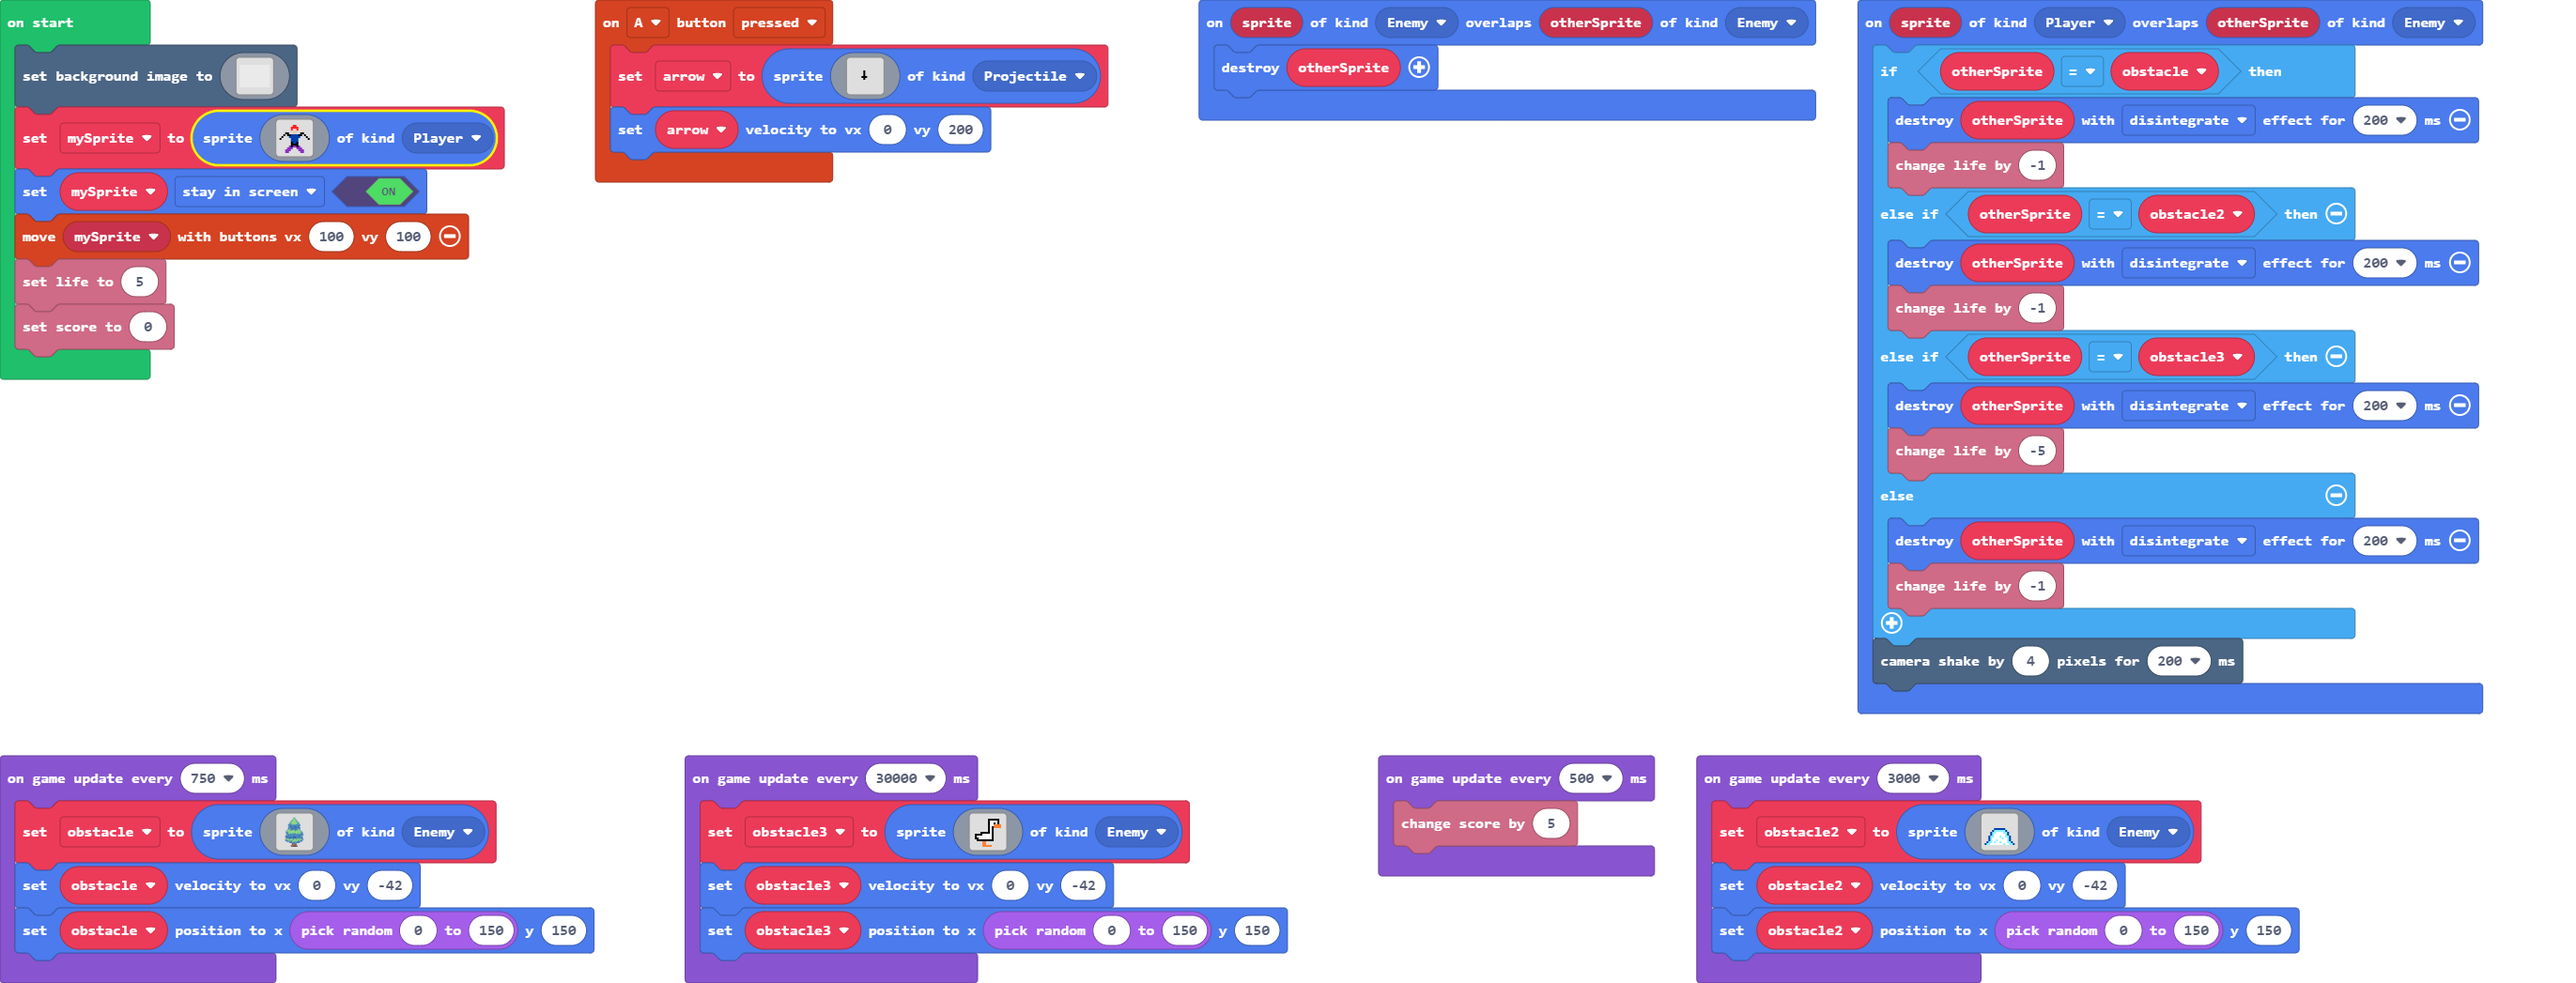
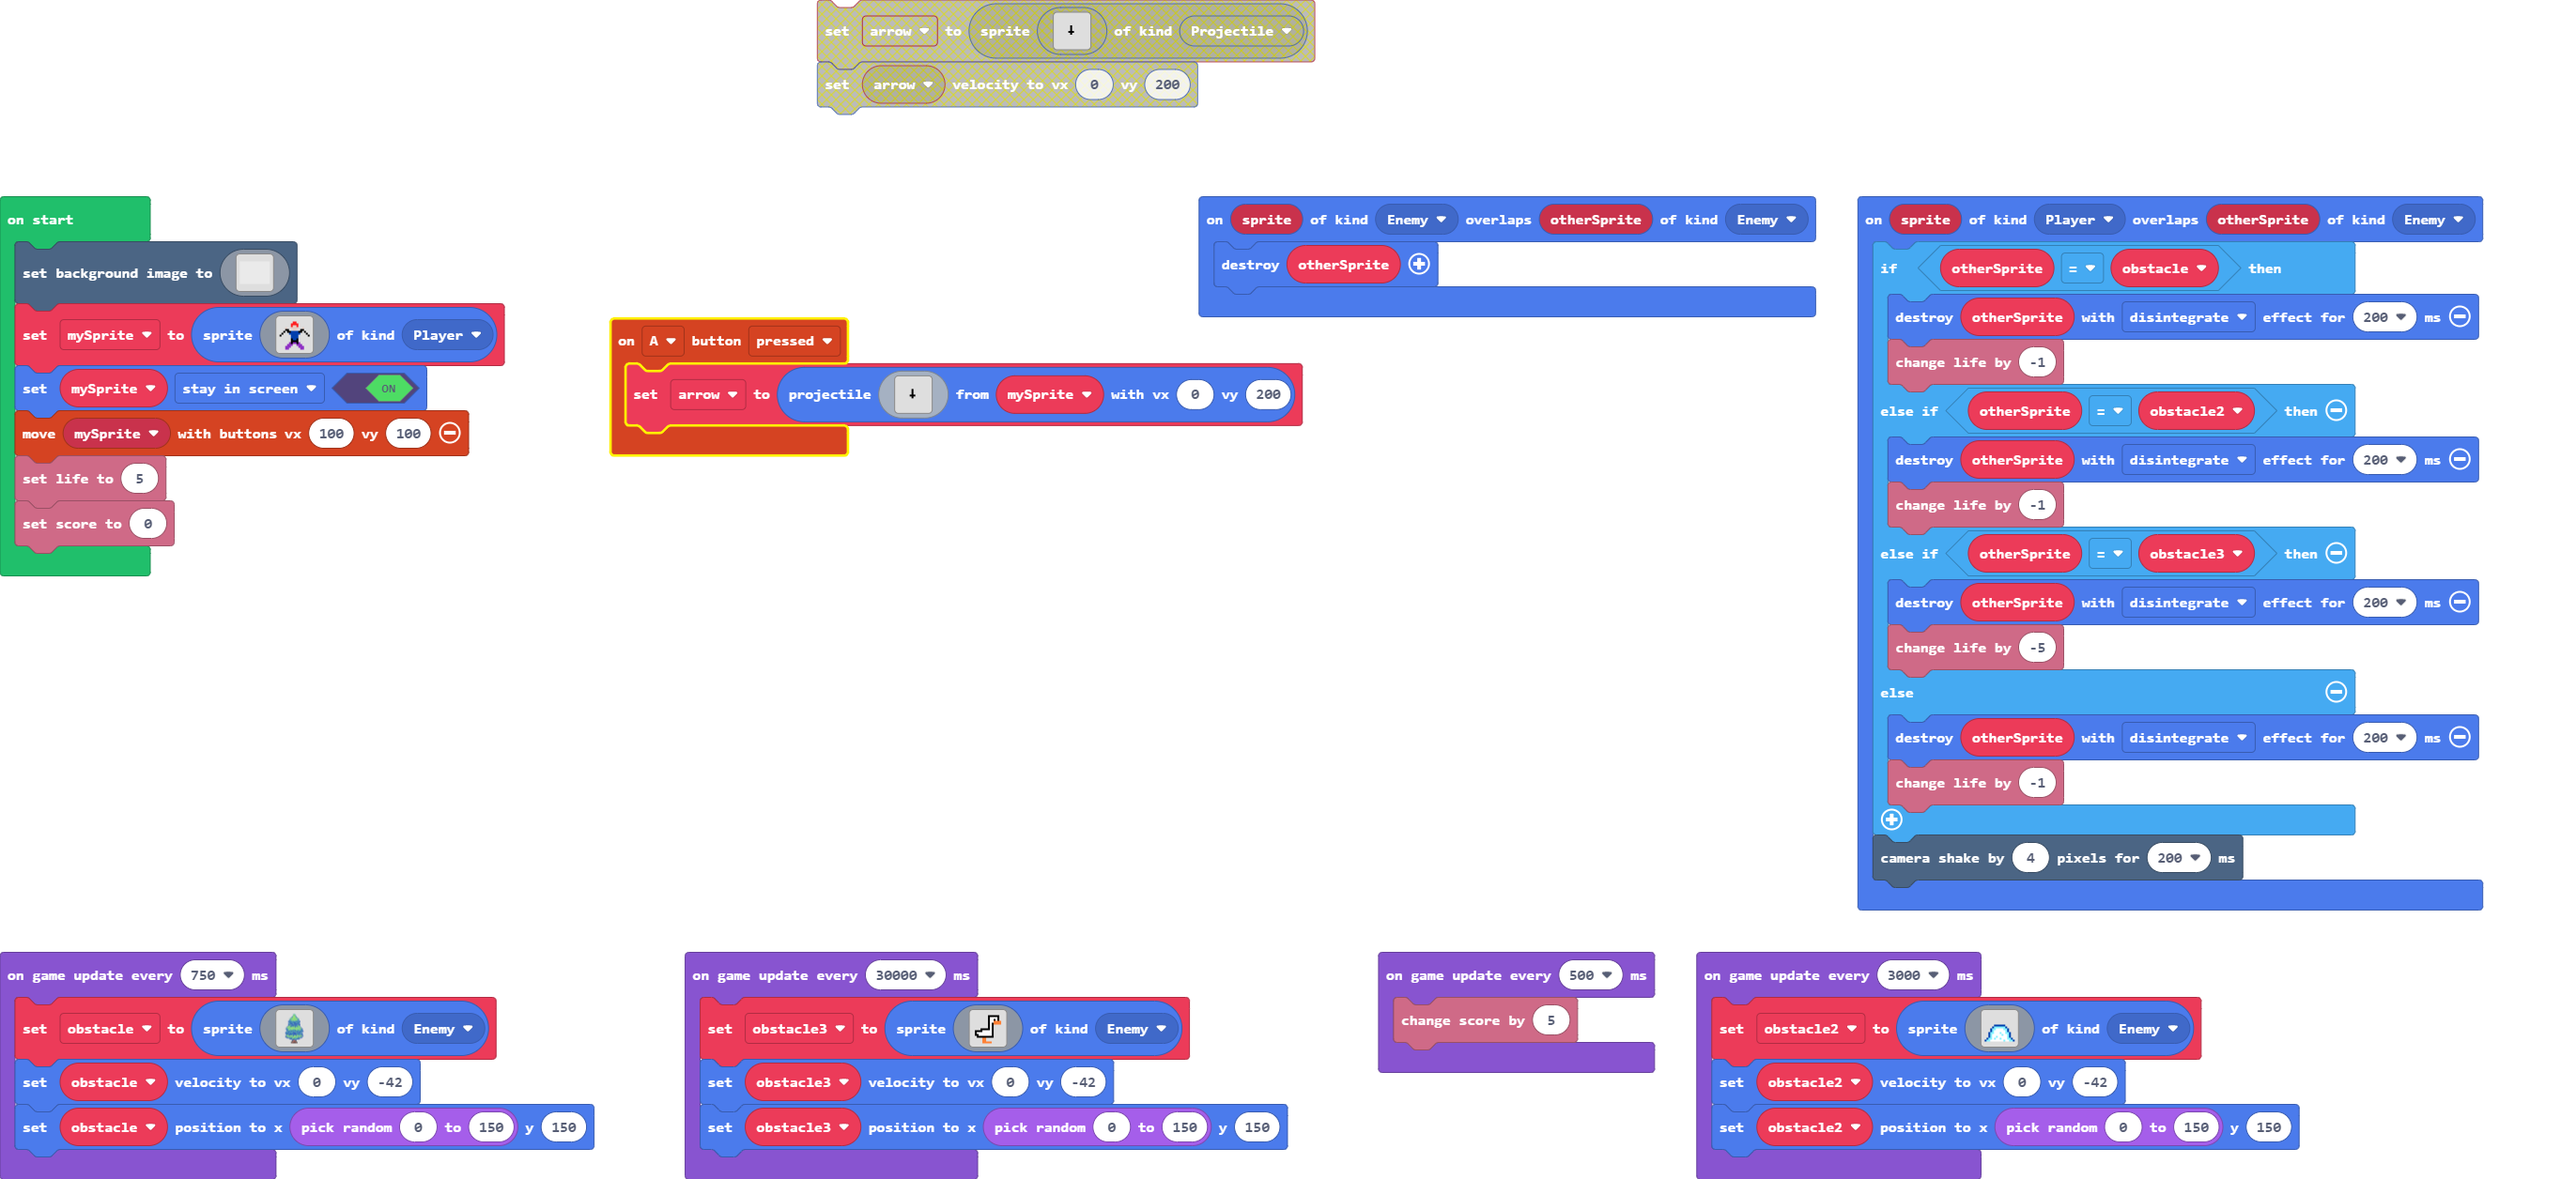
Update main.blocks, main.ts

diff --git a/main.ts b/main.ts
@@ -4,7 +4,7 @@ namespace SpriteKind {
     export const goose = SpriteKind.create()
 }
 controller.A.onEvent(ControllerButtonEvent.Pressed, function () {
-    arrow = sprites.create(img`
+    arrow = sprites.createProjectileFromSprite(img`
         . . . . . . . . . . . . . . . . 
         . . . . . . . . . . . . . . . . 
         . . . . . . . . . . . . . . . . 
@@ -21,8 +21,7 @@ controller.A.onEvent(ControllerButtonEvent.Pressed, function () {
         . . . . . . . . . . . . . . . . 
         . . . . . . . . . . . . . . . . 
         . . . . . . . . . . . . . . . . 
-        `, SpriteKind.Projectile)
-    arrow.setVelocity(0, 200)
+        `, mySprite, 0, 200)
 })
 sprites.onOverlap(SpriteKind.Enemy, SpriteKind.Enemy, function (sprite, otherSprite) {
     otherSprite.destroy()
@@ -47,6 +46,7 @@ let obstacle3: Sprite = null
 let obstacle2: Sprite = null
 let obstacle: Sprite = null
 let arrow: Sprite = null
+let mySprite: Sprite = null
 scene.setBackgroundImage(img`
     1111111111111111111111111111111111111111111111111111111111111111111111111111111111111111111111111111111111111111111111111111111111111111111111111111111111111111
     1111111111111111111111111111111111111111111111111111111111111111111111111111111111111111111111111111111111111111111111111111111111111111111111111111111111111111
@@ -169,7 +169,7 @@ scene.setBackgroundImage(img`
     1111111111111111111111111111111111111111111111111111111111111111111111111111111111111111111111111111111111111111111111111111111111111111111111111111111111111111
     1111111111111111111111111111111111111111111111111111111111111111111111111111111111111111111111111111111111111111111111111111111111111111111111111111111111111111
     `)
-let mySprite = sprites.create(img`
+mySprite = sprites.create(img`
     . . . . . . . . . . . . . . . . 
     . . . . . . . 2 2 . . . . . . . 
     . . . . . . 2 2 2 2 . . . . . . 
